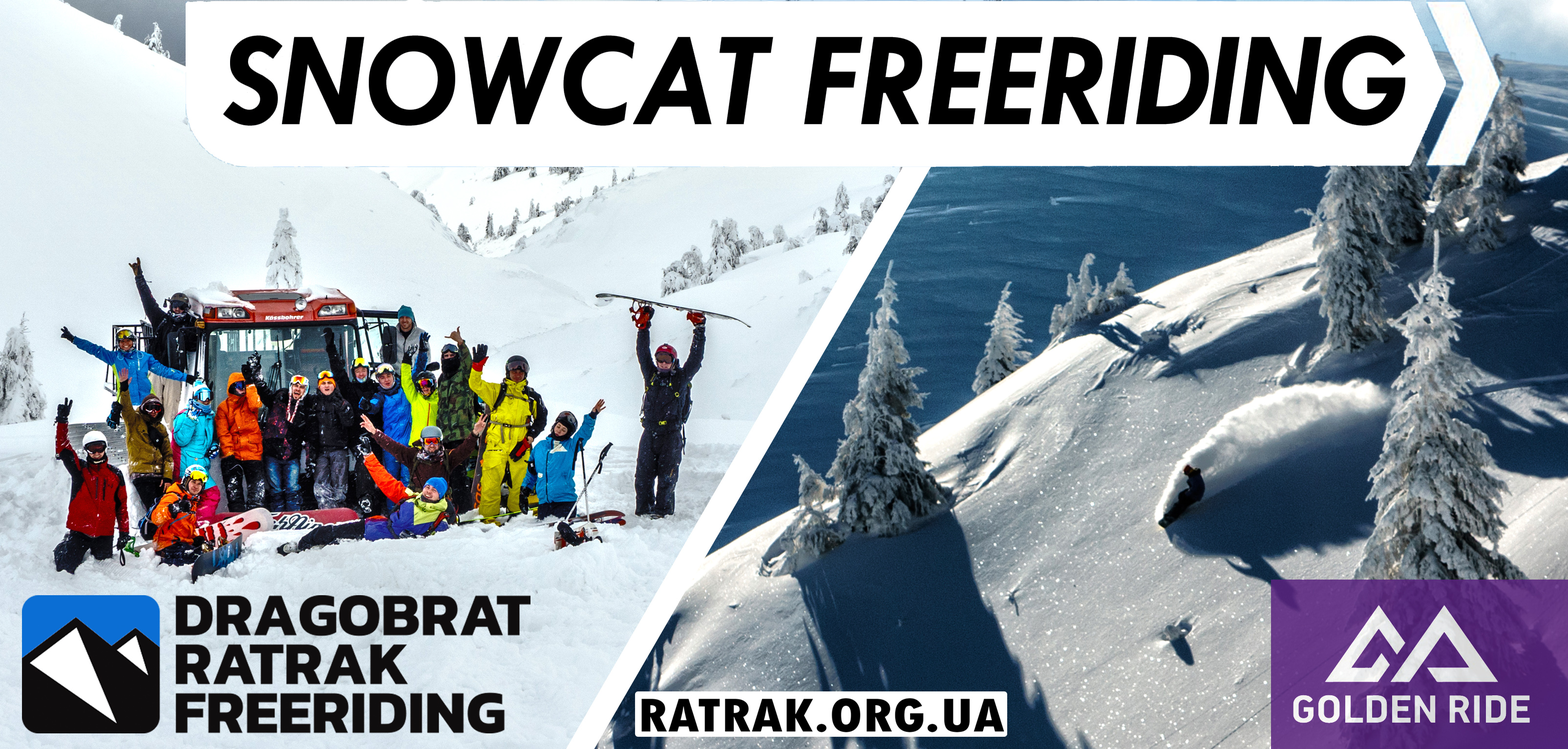
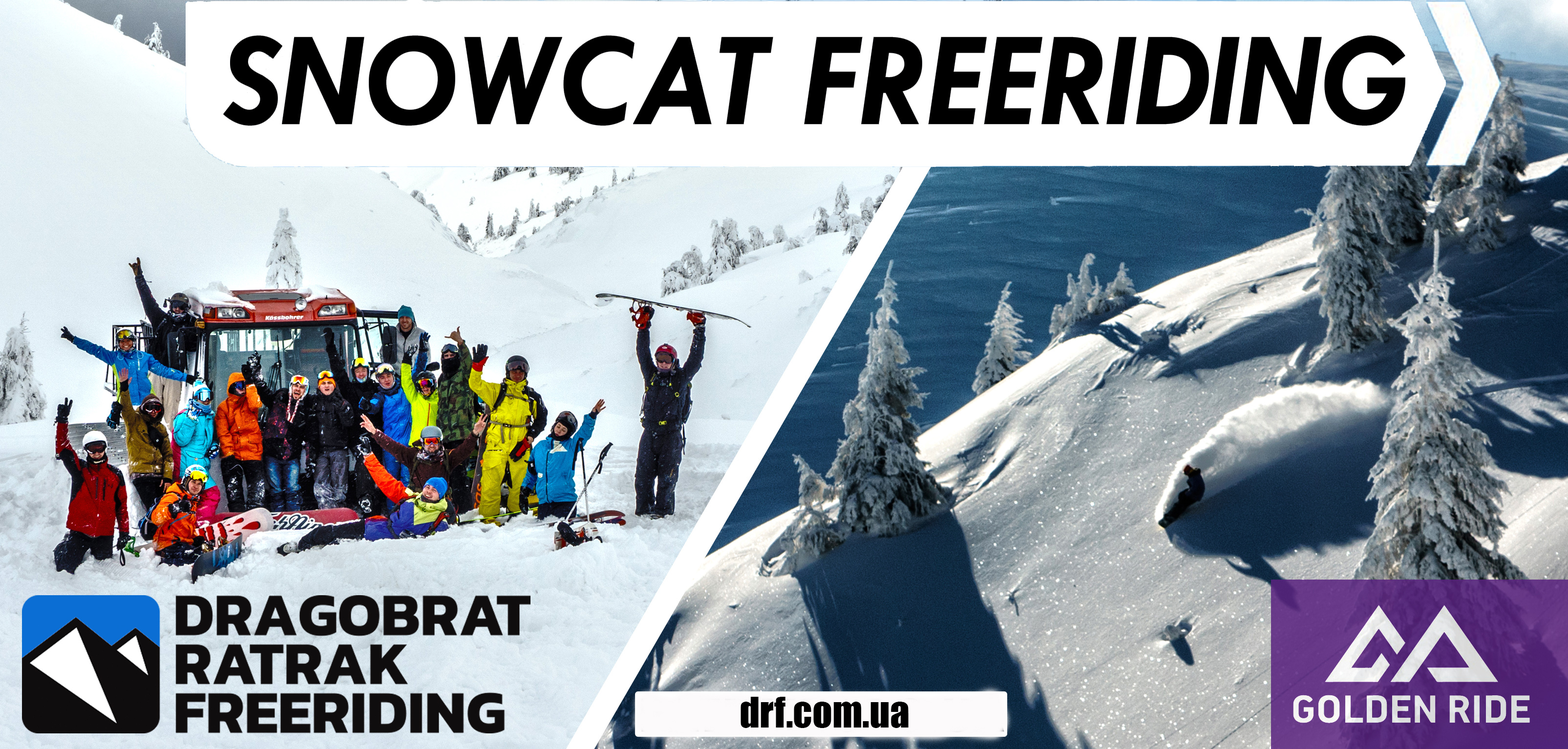
changed image

Changed region(s): [[0.405, 0.9192, 0.6542, 1.0]]

diff --git a/app/javascript/components/Hotels/Hotels.jsx b/app/javascript/components/Hotels/Hotels.jsx
@@ -94,7 +94,7 @@ export default class Hotels extends React.Component {
             <div className="top-banners">
               <div className='row justify-content-lg-center'>
                 <div className='col-lg-3'>
-                  <a id='left-ads' href="http://ratrak.org.ua/" target="_blank"><img src="/images/freeride.jpg" /></a>
+                  <a id='left-ads' href="https://drf.com.ua/" target="_blank"><img src="/images/freeride.jpg" /></a>
                 </div>
               </div>
               {/*<a href="/skipass"><img src="/images/november_square.jpg" /></a>*/}

diff --git a/db/schema.rb b/db/schema.rb
@@ -104,11 +104,6 @@ ActiveRecord::Schema.define(version: 20190107125736) do
     t.string "name"
   end
 
-  create_table "places", id: :serial, force: :cascade do |t|
-    t.integer "number"
-    t.integer "user_id"
-  end
-
   create_table "ratraks", force: :cascade do |t|
     t.integer "places"
     t.integer "hotel_id"
